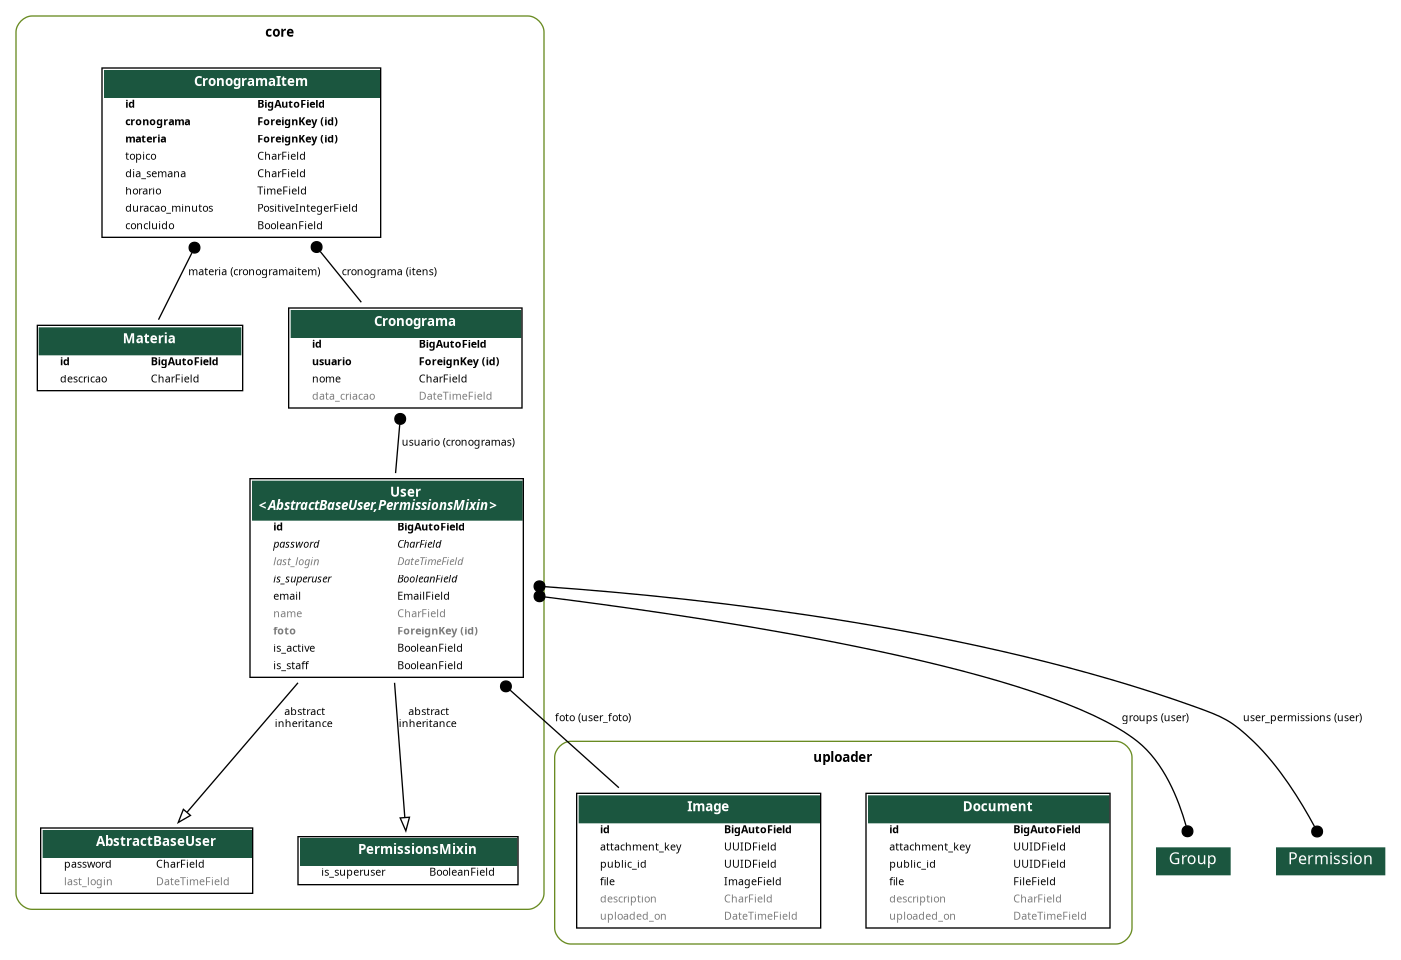
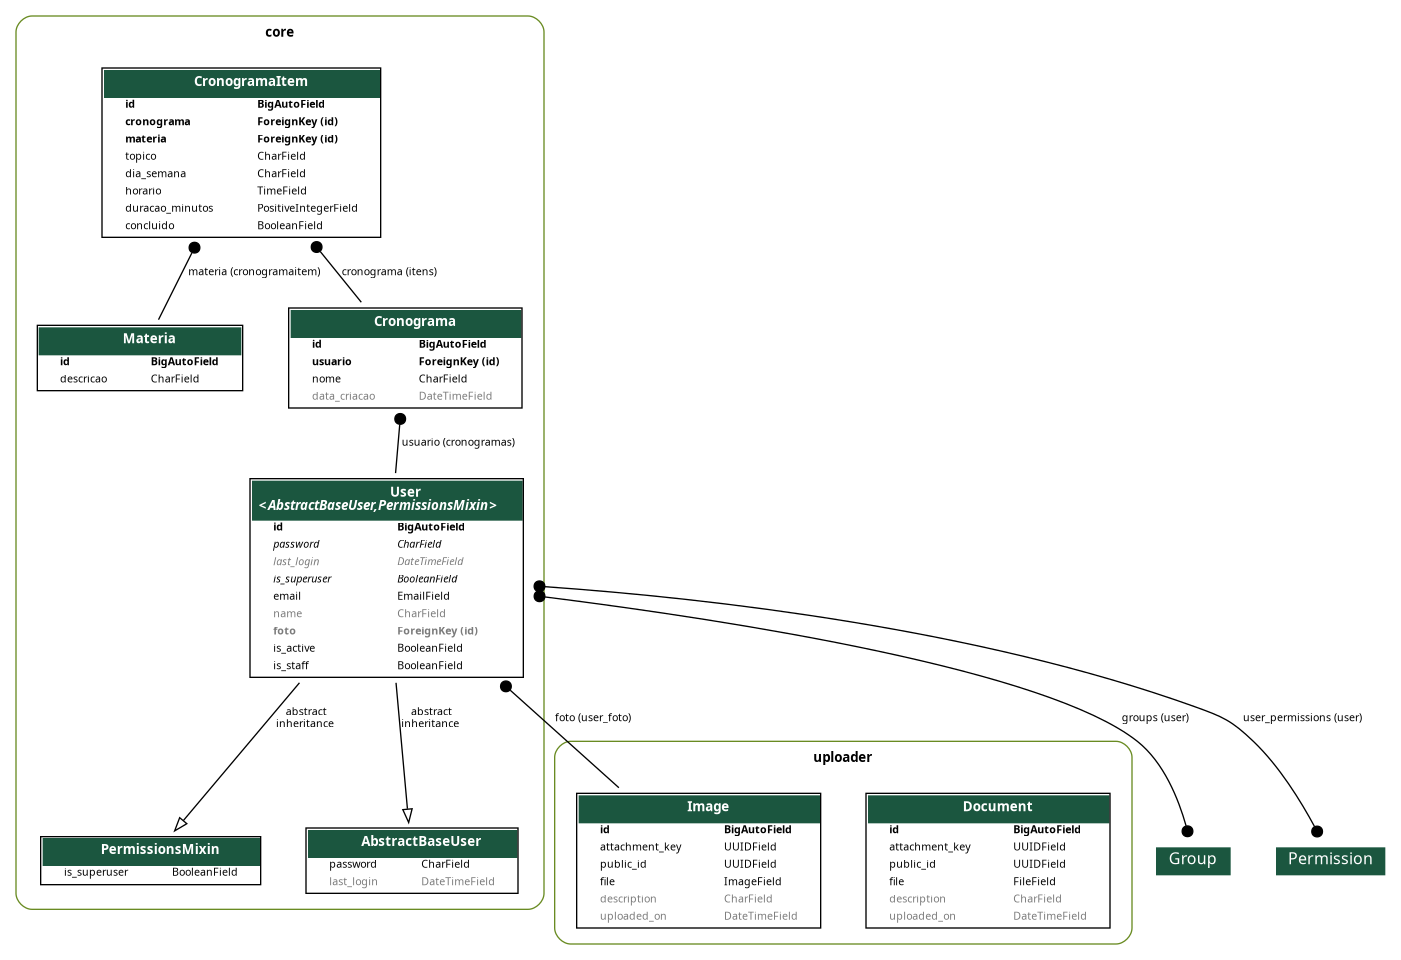
feat: terminando tabela cronograma

diff --git a/app/urls.py b/app/urls.py
@@ -1,53 +1,152 @@
-from django.conf import settings
-from django.conf.urls.static import static
 from django.contrib import admin
 from django.urls import include, path
+
 from drf_spectacular.views import (
     SpectacularAPIView,
     SpectacularRedocView,
     SpectacularSwaggerView,
 )
+
+from django.conf import settings
+from django.conf.urls.static import static
+
+from uploader.router import router as uploader_router
+
 from rest_framework.routers import DefaultRouter
+
 from rest_framework_simplejwt.views import (
     TokenObtainPairView,
     TokenRefreshView,
     TokenVerifyView,
 )
 
-from core.views import CronogramaItemViewSet, CronogramaViewSet, UserRegistrationView, UserViewSet
+
+from core.views import (
+    UserRegistrationView,
+    UserViewSet,
+    CronogramaViewSet,
+    CronogramaItemViewSet,
+)
+
 from core.views.materia import MateriaViewSet
-from uploader.router import router as uploader_router
+
 
 router = DefaultRouter()
 
-router.register(r'usuarios', UserViewSet, basename='usuarios')
-router.register(r'materia', MateriaViewSet, basename='materia')
-router.register(r'cronograma', CronogramaViewSet, basename='cronograma')
-router.register(r'cronograma-item', CronogramaItemViewSet, basename='cronograma-item')
+
+# Usuários
+router.register(
+    r'usuarios',
+    UserViewSet,
+    basename='usuarios'
+)
+
+
+# Matérias
+router.register(
+    r'materia',
+    MateriaViewSet,
+    basename='materia'
+)
+
+
+# Cronogramas
+router.register(
+    r'cronograma',
+    CronogramaViewSet,
+    basename='cronograma'
+)
+
+
+# Itens do cronograma
+router.register(
+    r'cronograma-item',
+    CronogramaItemViewSet,
+    basename='cronograma-item'
+)
+
+
 
 urlpatterns = [
-    path('admin/', admin.site.urls),
-    # OpenAPI 3
-    path('api/media/', include(uploader_router.urls)),
-    path('api/schema/', SpectacularAPIView.as_view(), name='schema'),
+
+    path(
+        'admin/',
+        admin.site.urls
+    ),
+
+
+    # Upload de imagens
+    path(
+        'api/media/',
+        include(uploader_router.urls)
+    ),
+
+
+    # Documentação API
+    path(
+        'api/schema/',
+        SpectacularAPIView.as_view(),
+        name='schema',
+    ),
+
     path(
         'api/doc/',
-        SpectacularSwaggerView.as_view(url_name='schema'),
+        SpectacularSwaggerView.as_view(
+            url_name='schema'
+        ),
         name='swagger-ui',
     ),
+
     path(
         'api/redoc/',
-        SpectacularRedocView.as_view(url_name='schema'),
+        SpectacularRedocView.as_view(
+            url_name='schema'
+        ),
         name='redoc',
     ),
-    # Autenticação JWT
-    path('api/token/', TokenObtainPairView.as_view(), name='token_obtain_pair'),
-    path('api/token/refresh/', TokenRefreshView.as_view(), name='token_refresh'),
-    path('api/token/verify/', TokenVerifyView.as_view(), name='token_verify'),
-    # Registro de usuários
-    path('api/registro/', UserRegistrationView.as_view(), name='user_registration'),
-    # API
-    path('api/', include(router.urls)),
+
+
+
+    # JWT
+    path(
+        'api/token/',
+        TokenObtainPairView.as_view(),
+        name='token_obtain_pair'
+    ),
+
+    path(
+        'api/token/refresh/',
+        TokenRefreshView.as_view(),
+        name='token_refresh'
+    ),
+
+    path(
+        'api/token/verify/',
+        TokenVerifyView.as_view(),
+        name='token_verify'
+    ),
+
+
+
+    # Registro
+    path(
+        'api/registro/',
+        UserRegistrationView.as_view(),
+        name='user_registration'
+    ),
+
+
+
+    # Rotas da API
+    path(
+        'api/',
+        include(router.urls)
+    ),
+
 ]
 
-urlpatterns += static(settings.MEDIA_ENDPOINT, document_root=settings.MEDIA_ROOT)
+
+urlpatterns += static(
+    settings.MEDIA_ENDPOINT,
+    document_root=settings.MEDIA_ROOT
+)

diff --git a/core/serializers/cronograma_item.py b/core/serializers/cronograma_item.py
@@ -1,3 +1,4 @@
+from rest_framework import serializers
 from rest_framework.serializers import ModelSerializer
 
 from core.models import CronogramaItem
@@ -5,6 +6,22 @@ from core.models import CronogramaItem
 
 class CronogramaItemSerializer(ModelSerializer):
 
+    materia_nome = serializers.CharField(
+        source='materia.descricao',
+        read_only=True
+    )
+
     class Meta:
         model = CronogramaItem
-        fields = '__all__'
+
+        fields = [
+            'id',
+            'cronograma',
+            'materia',
+            'materia_nome',
+            'topico',
+            'dia_semana',
+            'horario',
+            'duracao_minutos',
+            'concluido'
+        ]

diff --git a/core/views/cronograma.py b/core/views/cronograma.py
@@ -5,5 +5,15 @@ from core.serializers import CronogramaSerializer
 
 
 class CronogramaViewSet(ModelViewSet):
-    queryset = Cronograma.objects.all()
+
     serializer_class = CronogramaSerializer
+
+    def get_queryset(self):
+        return Cronograma.objects.filter(
+            usuario=self.request.user
+        )
+
+    def perform_create(self, serializer):
+        serializer.save(
+            usuario=self.request.user
+        )

diff --git a/core/views/cronograma_item.py b/core/views/cronograma_item.py
@@ -5,5 +5,10 @@ from core.serializers import CronogramaItemSerializer
 
 
 class CronogramaItemViewSet(ModelViewSet):
-    queryset = CronogramaItem.objects.all()
+
     serializer_class = CronogramaItemSerializer
+
+    def get_queryset(self):
+        return CronogramaItem.objects.filter(
+            cronograma__usuario=self.request.user
+        )